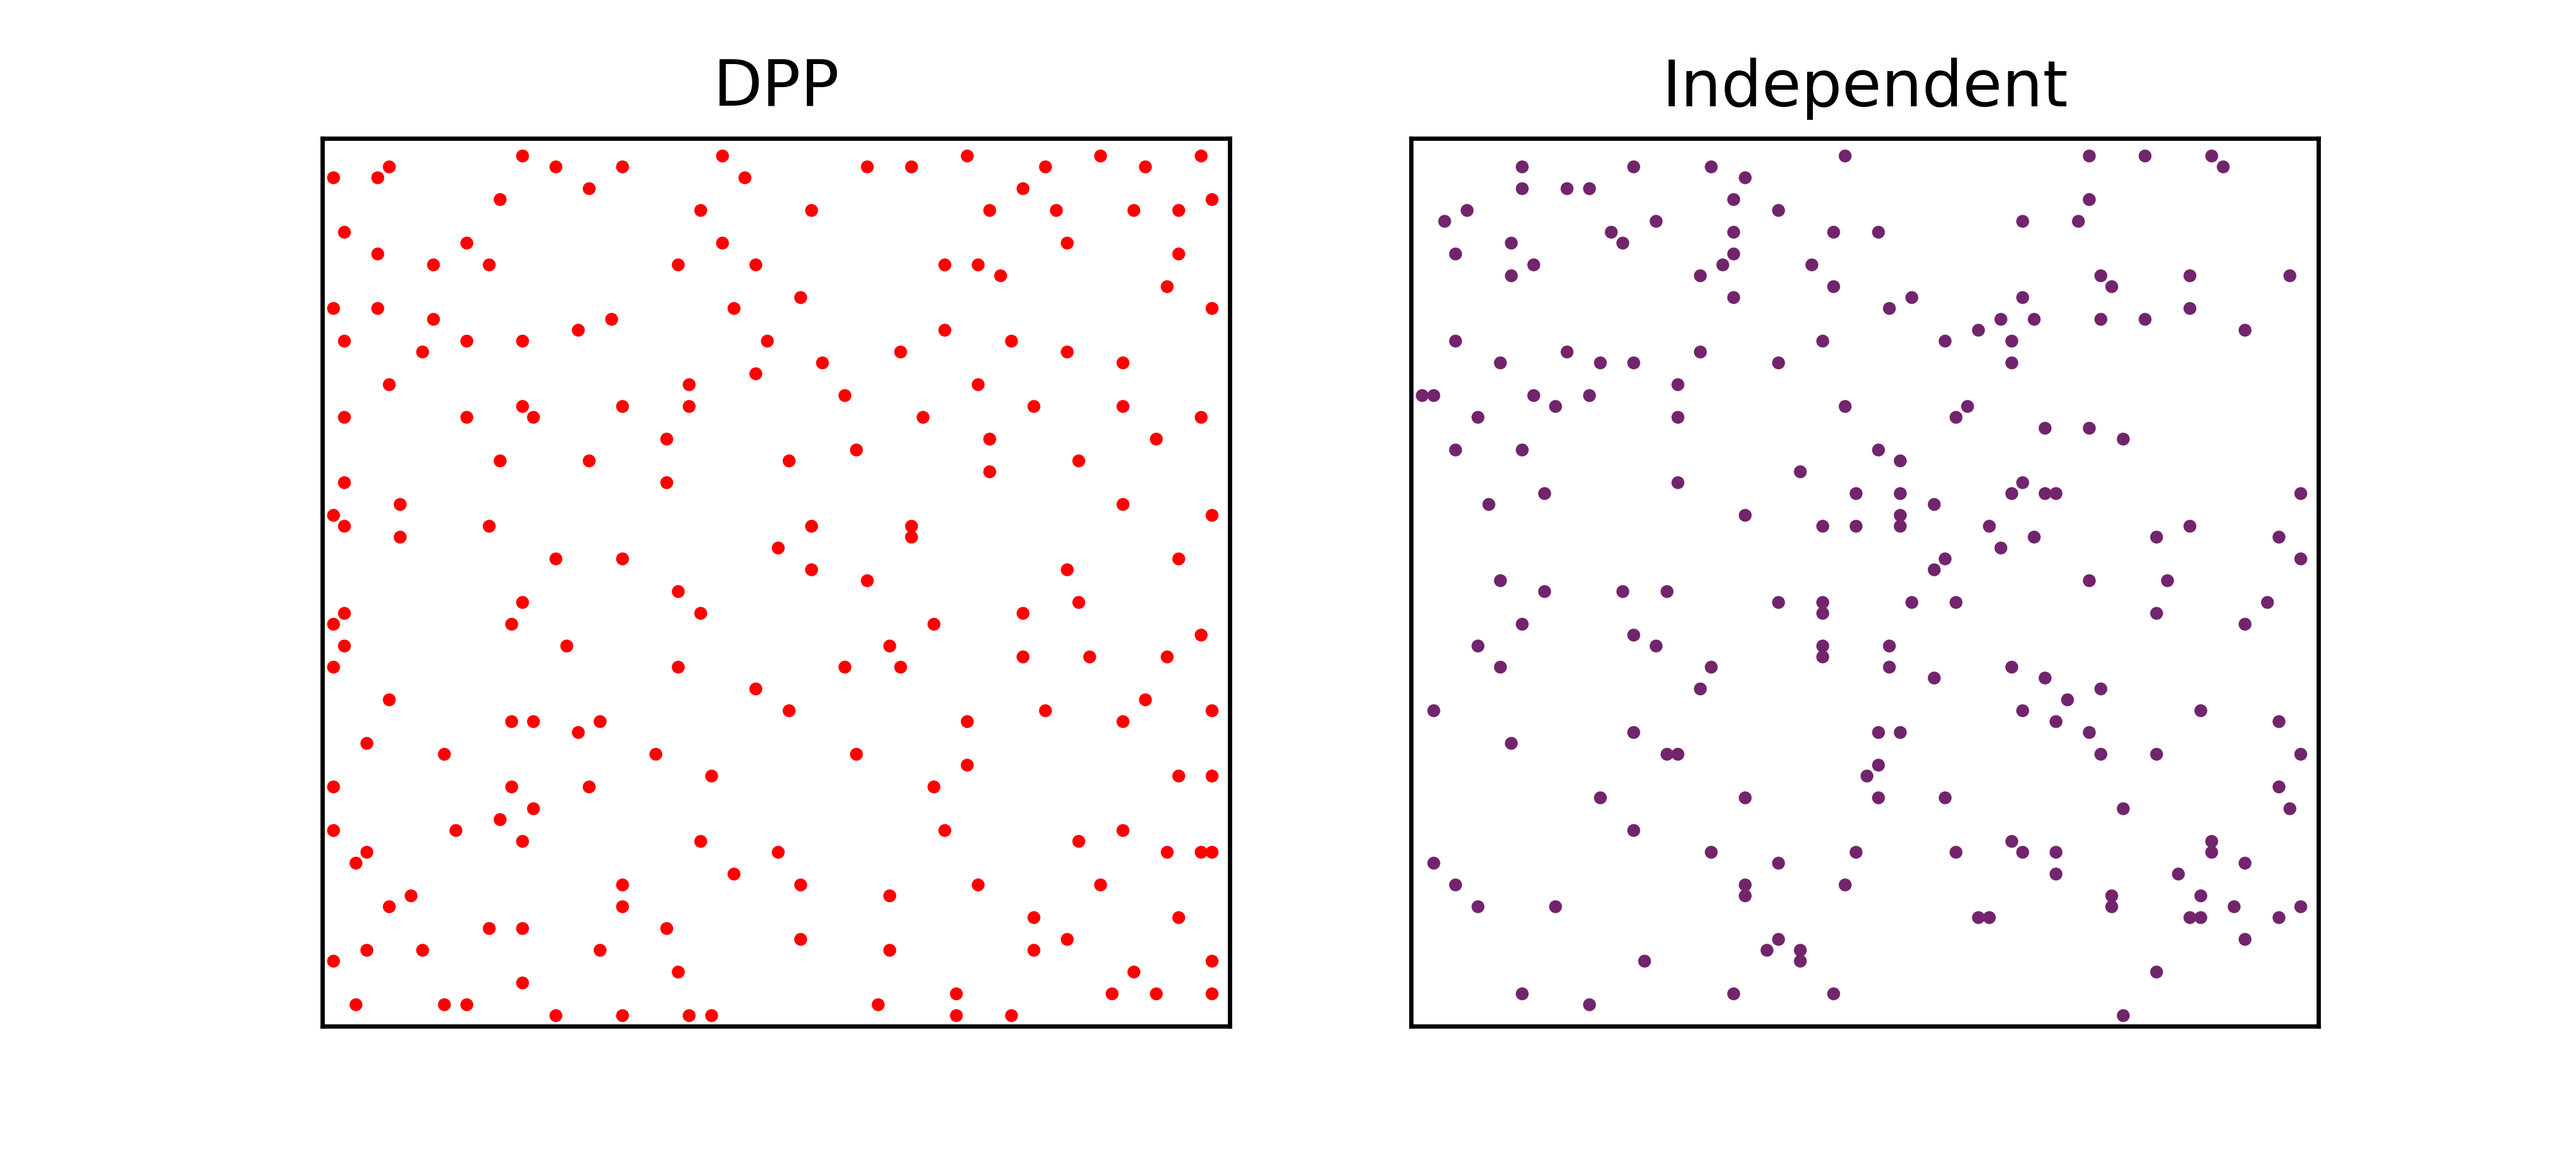
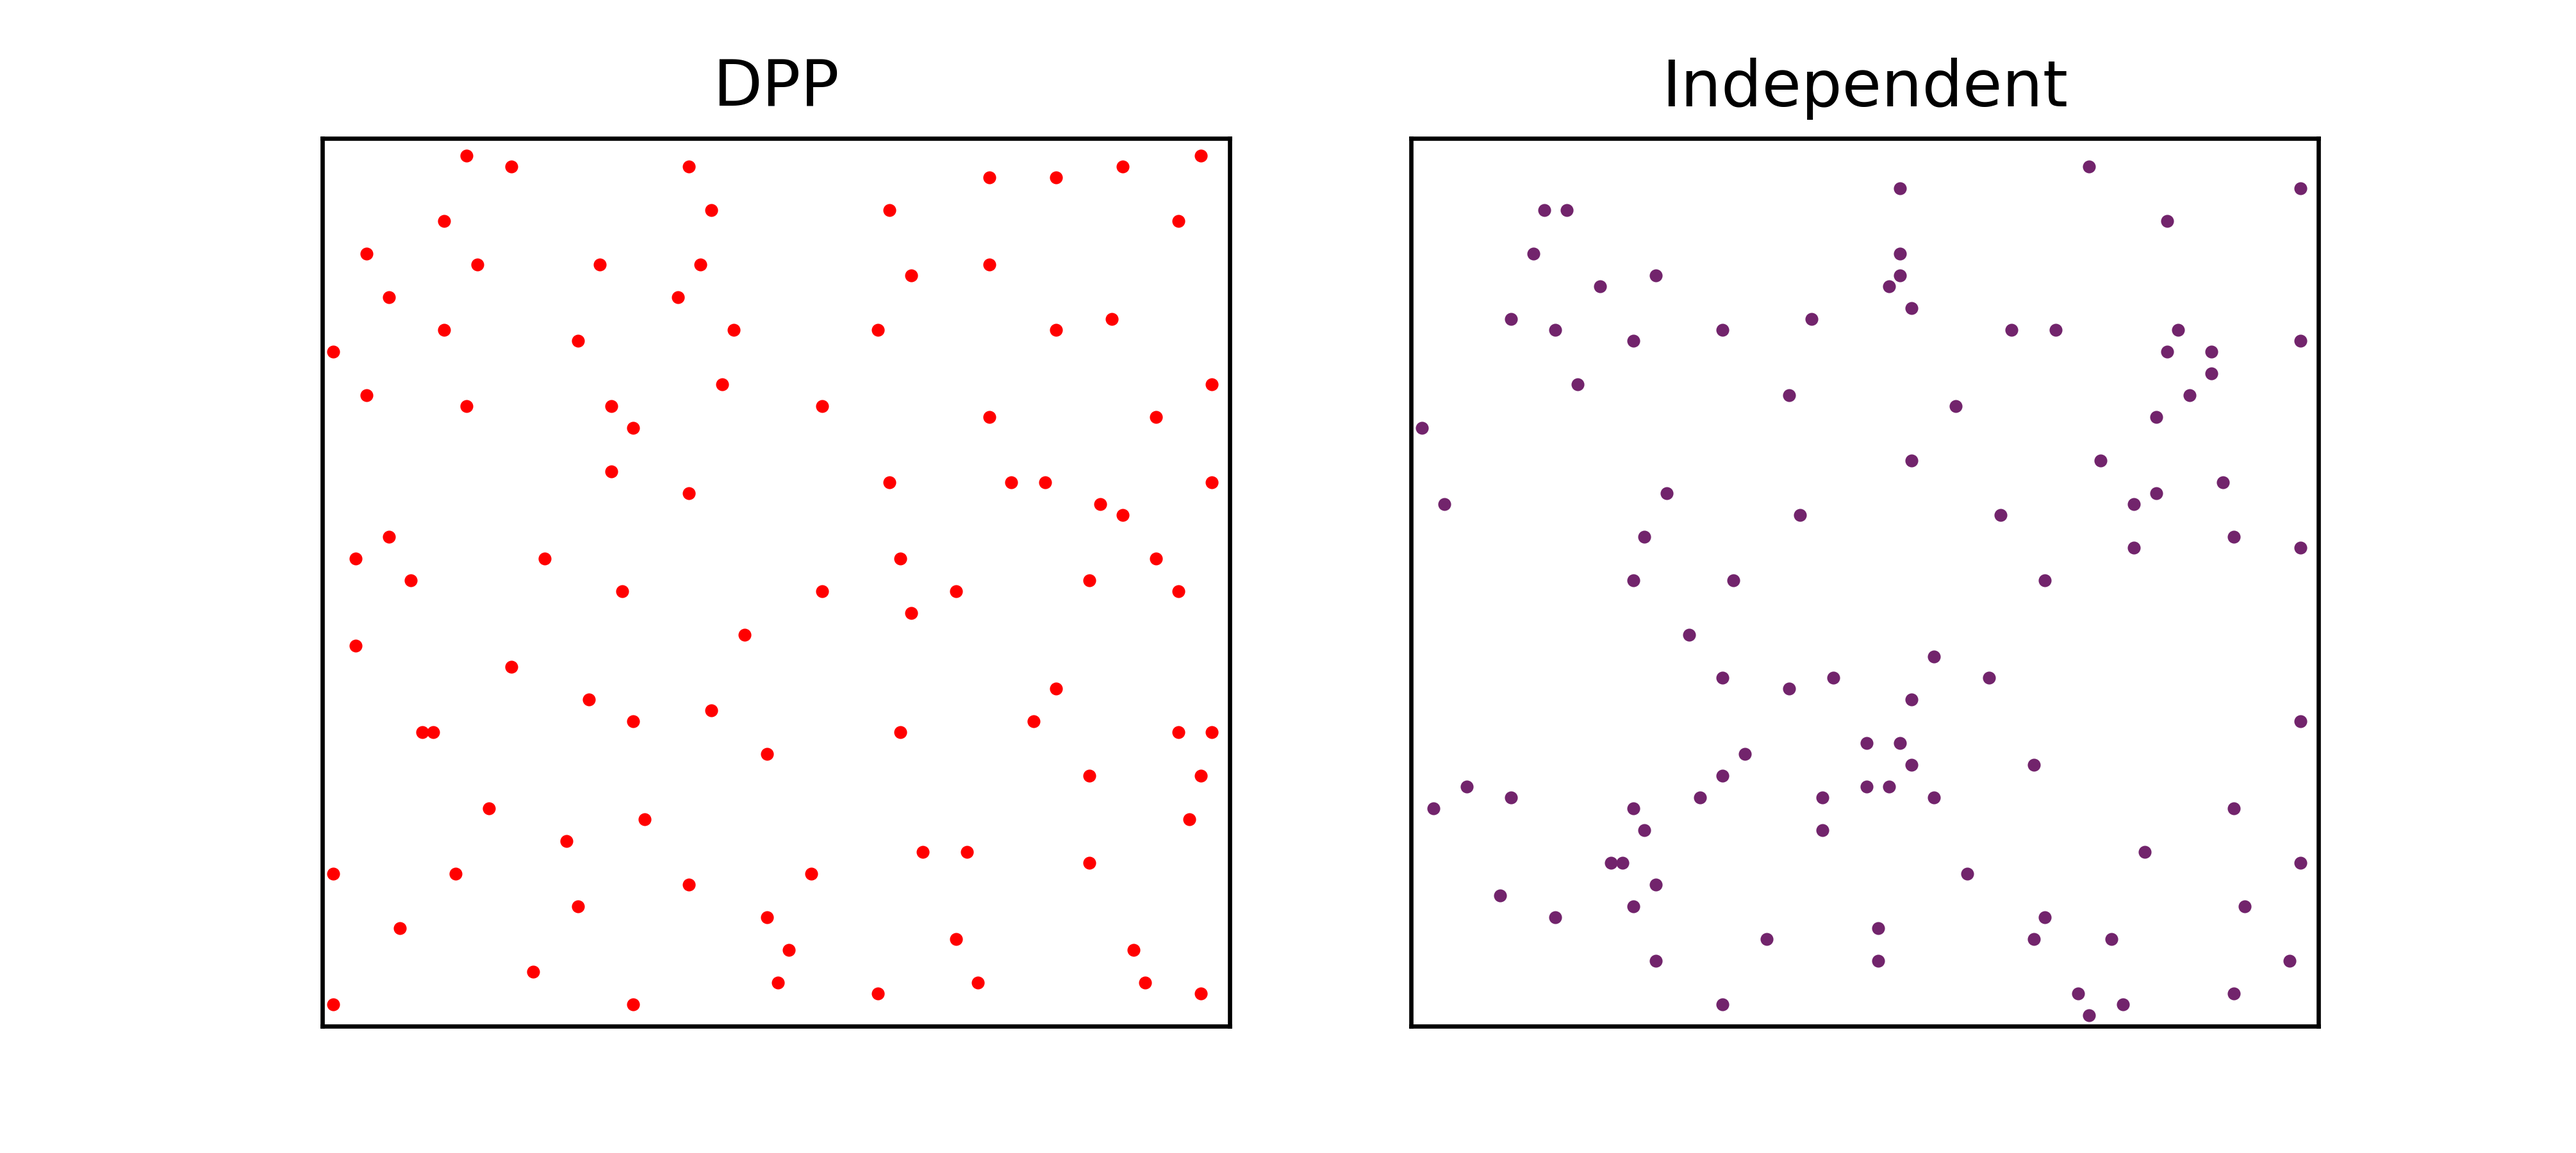
Updated some plots, rec sys and DPP spanning trees

diff --git a/ReinforcementLearningWithDPPs/root1_Correct-Assumptions/CompareLearningRates.py b/ReinforcementLearningWithDPPs/root1_Correct-Assumptions/CompareLearningRates.py
@@ -108,8 +108,8 @@ def compute_snd_devs(rec_reward):
     return yerr
 
 def plotMultiple(data, mask=None, fn='all_algorithms'):
-    plot_data = {}
-    for algo, (path,c) in data.items():
+    plot_data = []
+    for algo, (n,path,c) in data.items():
         with open(path, 'r') as f:
             rec_reward = json.load(f)
         if 'yerr' in rec_reward:
@@ -126,23 +126,24 @@ def plotMultiple(data, mask=None, fn='all_algorithms'):
             [xs, ys] = list(zip(*reward_av))
             xs, ys, yerr = np.array(xs), np.array(ys), np.array(yerr)
             if mask is not None:
-                m = [i for i in range(len(xs)) if i%3==0]
+                m = [i for i in range(len(xs)) if i%5==0]
                 xs, ys, yerr = xs[m], ys[m], yerr[m]
-        plot_data[algo] = [np.array(xs), np.array(ys), np.array(yerr), c]
-
-    plt.plot([0, 30], [OPTIMAL_SCORE, OPTIMAL_SCORE], c='g', lw=0.5, label='Optimal')
+        plot_data.append([algo, n, np.array(xs), np.array(ys), np.array(yerr), c])
+    plt.figure(figsize=(7,5))
+    plt.plot([0, 30], [OPTIMAL_SCORE, OPTIMAL_SCORE], c='g', lw=0.7, label='Optimal')
 
     # cols = [PALATINATE, 'r', 'm', 'c', 'lightgreen', 'b'] + list(mcolors.CSS4_COLORS)
     shift = 0
-    for algo, [xs, ys, yerr, c] in plot_data.items():
+    plot_data = sorted(plot_data, key=lambda x:x[1])
+    for (algo, n, xs, ys, yerr, c) in plot_data:
         mask = xs<320000
         xs, ys, yerr = xs[mask], ys[mask], yerr[mask]
-        plt.errorbar(xs/10000+shift, ys, yerr=yerr, c=c, lw=0.5, label=algo)
+        plt.errorbar(xs/10000+shift, ys, yerr=yerr, c=c, lw=0.7, label=algo)
         shift -= 0.02
 
     plt.ylim([-1.05,-0.55])
     plt.legend(loc='lower right')
-    plt.title('Algorithm comparison on the blocker task')
+    # plt.title('Algorithm comparison on the blocker task')
     plt.xlabel('Number of actions taken $\\times$ 10000')
     plt.ylabel('Average reward per action')
     plt.savefig('plots/'+fn, dpi=700)
@@ -170,19 +171,21 @@ if __name__ == '__main__':
     repeats = 10
     simulate(repeats, env, to_simulate)
 
-    # TESTING MODEL BASED:
-    data = {'Actor-Critic':(path1, 'm'),'detSarsaModelMean':(path2, PALATINATE), 'sarsaNoBoltzStepMean':(path5, 'r')}
-    plotMultiple(data, fn='model_comparison')
+    # # TESTING MODEL BASED:
+    # data = {'Actor-Critic':(path1, 'm'),'detSarsaModelMean':(path2, PALATINATE), 'sarsaNoBoltzStepMean':(path5, 'r')}
+    # plotMultiple(data, fn='model_comparison')
 
 
-    SilverHessTeh = {'ENATDAC':(p+'HessSilverTeh/ENATDAC-plot-data.json', 'c'),
-                     'EQNAC':(p+'HessSilverTeh/EQNAC-plot-data.json', 'b'),
-                     'NN':(p+'HessSilverTeh/NN-plot-data.json', 'm'),
-                     'ESARSA':(p+'HessSilverTeh/ESARSA-plot-data.json', 'r')}
+    SilverHessTeh = {'ENATDAC':(3, p+'HessSilverTeh/ENATDAC-plot-data.json', 'c'),
+                     'EQNAC':(4, p+'HessSilverTeh/EQNAC-plot-data.json', 'b'),
+                     'NN':(5, p+'HessSilverTeh/NN-plot-data.json', 'm'),
+                     'ESARSA':(6, p+'HessSilverTeh/ESARSA-plot-data.json', 'chartreuse')}
     data = {}
-    data.update({'DetSARSA-Model1':(path2, PALATINATE)})#, 'detSarsaNNModelMean':path4})
+    # (bi, bf, es, ec): 1: (2, 5e4, 5e4, 3e-3), 2: (20, 2e4, 4e4, 5e-4)
+    data.update({'MDet-SARSA 1':(1, '../HamiltonDir/data/d343.json', PALATINATE)})#{'DetSARSA-Model1':(path2, PALATINATE)})#, 'detSarsaNNModelMean':path4})
+    data.update({'MDet-SARSA 2':(2, '../HamiltonDir/data/d886.json', 'r')})
     data.update(SilverHessTeh)
-    plotMultiple(data, fn='hess_comparison')
+    plotMultiple(data, fn='hess_comparison', mask=True)
 
 
 

diff --git a/ExamplesOfDPPs/RecommenderSystem/RS.py b/ExamplesOfDPPs/RecommenderSystem/RS.py
@@ -138,39 +138,54 @@ class MF:
                 losses = []
                 if t%(print_time*10)==0: self.save(UM=True)
 
-    def recommend(self, user, obs_items):
+    def generateDiversityVecs(self):
+        self.diversity = np.array([self.M[j, :]/np.linalg.norm(self.M[j, :]) for j in range(self.M.shape[0])])
+
+    def recommendDPP(self, user, obs_items, n_recs):
         ''' 
         data required: 
-                dict: item -> popularity_normalised, dict: user -> unobserved items (observed in a test set)            
-        predictions = generate r_ui for all i
-        filter out already observed ones?
-        
-        compose final recommendation list based on:
-            predicted ratings, popularity, diverse items 
+            arr: item -> popularity_normalised        
+            arr: predictions = generate r_ui for all i
+            mat: diversity vectors for all items
         '''
         un_obs_items = list(set(list(range(self.m))) - set(obs_items))
         base_Y, selection = np.array(un_obs_items), []
         if len(obs_items) > 0:
-            selection = np.random.choice(obs_items, min(10, len(obs_items)), replace=False)
+            selection = np.random.choice(obs_items, min(n_recs, len(obs_items)), replace=False)
             base_Y = np.append(base_Y, selection)
         ''' quality is a function of user-context-item '''
-        print('Producing data for DPP...')
-        quality = np.array([self.F(user, j) + self.item_popularity[j] for j in base_Y])
+        quality = np.array([self.F(user, j)*self.item_popularity[j] for j in base_Y])
         mask = quality > 0# remove any with q < 0
         quality = quality[mask]
         ''' quality is a function of the latent space of items '''
-        diversity = np.array([quality[i] * self.M[j, :]/np.linalg.norm(self.M[j, :]) for i, j in enumerate(base_Y[mask])])
+        B = np.array([quality[i] * self.diversity[j, :] for i, j in enumerate(base_Y[mask])])
         # --> sample dual dpp
-        C = np.dot(diversity.T, diversity)
-        print('Sampling DPP...')
-        dpp = DualDPP(C, diversity.T)
-        selected_items = list( dpp.sample_dual(k=10) )
-        print("Done.")
+        C = np.dot(B.T, B)
+        dpp = DualDPP(C, B.T)
+        selected_items = list( dpp.sample_dual(k=n_recs) )
+        return selected_items
+    
+    def recommendIndep(self, user, obs_items, n_recs):
+        ''' 
+        data required: 
+            arr: item -> popularity_normalised        
+            arr: predictions = generate r_ui for all i
+        '''
+        un_obs_items = list(set(list(range(self.m))) - set(obs_items))
+        base_Y, selection = np.array(un_obs_items), []
+        if len(obs_items) > 0:
+            selection = np.random.choice(obs_items, min(n_recs, len(obs_items)), replace=False)
+            base_Y = np.append(base_Y, selection)
+        ''' quality is a function of user-context-item '''
+        quality = np.array([self.F(user, j)*self.item_popularity[j] for j in base_Y])
+        mask = quality > 0# remove any with q < 0
+        quality, base_Y = quality[mask], base_Y[mask]
+        selected_items = np.random.choice(base_Y, n_recs, p=quality/sum(quality), replace=False)
         return selected_items
 
 #rs = MF(train=True)
 #rs.train()
         
 #rs = MF()
-#print(rs.recommend(0, list(range(30))))
+#print(rs.recommendDPP(0, list(range(30))))
 

diff --git a/ExamplesOfDPPs/RecommenderSystem/RunMetrics.py b/ExamplesOfDPPs/RecommenderSystem/RunMetrics.py
@@ -58,20 +58,6 @@ def novelty(item_pop_R):
     # compute log_2(popularity(item)) / len(list)
     return -sum(np.log2(item_pop_R))/len(item_pop_R)
 
-def catalogCoverage(rs, user, N=1500):
-    m = rs.m
-    
-    obs_items = set([])
-    coverage = np.zeros(N)
-    for i in tqdm(range(N)):
-        recs = rs.recommend(user, list(obs_items))
-        obs_items = obs_items.union(recs)
-        coverage[i] = len(obs_items)/m
-        print(coverage[i])
-    return coverage
-
-
-
 rs = MF(train=True)# train == True loads Y so that we can test it
 rs.load()
 
@@ -133,40 +119,40 @@ plt.legend()
 plt.savefig('PR', dpi=400)
 plt.show()
 
-###############################################################################
-###################           Catalog Coverage            #####################
-###############################################################################
-user, N = 0, 1500
-coverage = catalogCoverage(rs, user, N=N)
-
-plt.clf()
-plt.plot([i*10 for i in range(1, N+1)], coverage, 'c', label='SVD-PF')
-#plt.plot([i*10 for i in range(1, N+1)], coverage_tf, "#72246C", label='TF-DPP')
-plt.plot([rs.m, rs.m], [0, 1.05], 'r', label='Total number of items')
-plt.xlabel('Number of tracks recommended')
-plt.ylabel('Proportion of tracks seen')
-plt.ylim([0, 1.05])
-plt.legend()
-#plt.title('Catelog coverage')
-plt.savefig('CatalogCoverage', dpi=300)
-plt.show()
-
 
 ###############################################################################
 ###################                Novelty                #####################
 ###############################################################################
-N = 500
-user = 0
+N = 200
+N_recs = 8
 m = rs.m
+novDPP, divDPP, novIND, divIND = [],[],[],[]
+rs.generateDiversityVecs()
+n_users = 10
+c = 0
+for user in np.random.choice(range(rs.n), n_users, replace=False):
+	c+=1
+	print(str(c)+' of '+str(n_users))
+	obs_items = set([])
+	for i in tqdm(range(N)):
+	    recs = rs.recommendDPP(user, list(obs_items), N_recs)
+	    item_pop_R = rs.item_popularity[recs]
+	    novDPP.append(novelty(item_pop_R))
+	    divDPP.append(np.mean([np.dot(rs.diversity[recs[a], :], rs.diversity[recs[b], :]) for a in range(N_recs) for b in range(a)]))
 
-obs_items = set([])
-nov = np.zeros(N)
-for i in tqdm(range(N)):
-    recs = rs.recommend(user, list(obs_items))
-    item_pop_R = rs.item_popularity[recs]
-    nov[i] = novelty(item_pop_R)
-#    print(nov[i])
-print(np.mean(nov))# 8.29
-print(np.std(nov))# 0.658
+	obs_items = set([])
+	for i in tqdm(range(N)):
+	    recs = rs.recommendIndep(user, list(obs_items), N_recs)
+	    item_pop_R = rs.item_popularity[recs]
+	    novIND.append(novelty(item_pop_R))
+	    divIND.append(np.mean([np.dot(rs.diversity[recs[a], :], rs.diversity[recs[b], :]) for a in range(N_recs) for b in range(a)]))
+
+print("Novelty:")
+print("DPP: Mean: "+str(np.mean(novDPP))+", std dev: "+str(np.std(novDPP)))
+print("IND: Mean: "+str(np.mean(novIND))+", std dev: "+str(np.std(novIND)))
+
+print("Diversity:")
+print("DPP: Mean: "+str(np.mean(divDPP))+", std dev: "+str(np.std(divDPP)))
+print("IND: Mean: "+str(np.mean(divIND))+", std dev: "+str(np.std(divIND)))
     
     

diff --git a/ExamplesOfDPPs/SpanningTrees/main_SpanningGraphsDPP.py b/ExamplesOfDPPs/SpanningTrees/main_SpanningGraphsDPP.py
@@ -1,5 +1,5 @@
 from misc import makeGridGraph, plotter
-from scipy.linalg import qr
+from scipy.linalg import eigh
 import networkx as nx
 import numpy as np
 import time
@@ -7,8 +7,9 @@ import time
 from AldousBroder import AldousBroder
 from Wilson import Wilson
 from HKPV import USG
+
 import sys
-sys.path.append('../')
+sys.path.append('../../')
 from DPP import DPP
 
 
@@ -26,19 +27,18 @@ class SpanningGraphs:
 
     def compute_kernel(self):
         inc_mat = nx.incidence_matrix(self.g, oriented=False)
-        A = inc_mat[:-1, :].toarray()
-        self.kernel_eig_vecs, _ = qr(A.T, mode='economic')
+        A = inc_mat[1:, :].toarray()
+        #K=A^T[AA^T]^{-1}A
+        self.K = np.dot(A.T, np.dot(np.linalg.inv(np.dot(A, A.T)), A))
         self.edges = list(self.g.edges())
 
     def dpp(self):
         self.compute_kernel()
-        evs = np.copy(self.kernel_eig_vecs)
-        dpp = DPP(evs)
-        dpp_sample = dpp.sample()
+        dpp_ = DPP(*eigh(self.K))
+        Y = dpp_.sample(k=len(self.g.nodes)-1)
 
         sampl = nx.Graph()
-        sampl.add_edges_from([self.edges[e] for e in dpp_sample])
-
+        sampl.add_edges_from([self.edges[e] for e in Y])
         return sampl
 
     def HKPV(self):
@@ -46,7 +46,7 @@ class SpanningGraphs:
         return usg.sample()
 
 
-n = 15
+n = 10
 sg = SpanningGraphs(n)
 
 for fn in ["wilson", "aldousBroder", "dpp", "HKPV"]:

diff --git a/ExamplesOfDPPs/PointsInSquare/Independent-vs-DPP-samples.py b/ExamplesOfDPPs/PointsInSquare/Independent-vs-DPP-samples.py
@@ -41,7 +41,8 @@ def figure():
     dpp = DPP(D, V)
 
     # sample
-    dpp_sample = dpp.sample(k=200)# OR dpp.sample()
+    dpp_sample = dpp.sample()
+    # dpp_sample = dpp.sample(k=200)
     ind_sample = np.random.choice(range(n*n), len(dpp_sample), replace=False)#np.random.randint(n*n, size=len(dpp_sample))
 
     # PLOTTING

diff --git a/InteractivePrograms/SearchParams.py b/InteractivePrograms/SearchParams.py
@@ -43,6 +43,7 @@ def find_index4params(params):
         prms.append(int(arr[i]) if arr[i]%1==0 else arr[i])
     return lookup_dict[str(prms)]
 
+# print(find_index4params((2.0, 50000, 50000, 0.003)))
 
 d_simp = {}
 mxx = ((beta_init[0], beta_frac[0], eta_start[0], eta_const[0]), -1)

diff --git a/README.md b/README.md
@@ -10,7 +10,8 @@
 ├── ExamplesOfDPPs
 │   ├── PointsInSquare
 │   ├── SpanningTrees
-│   └── UnitSphereR4
+│   ├── UnitSphereR4
+│   └── RecommenderSystem
 ├── InteractivePrograms
 ├── LearningDPPs
 └── ReinforcementLearningWithDPPs
